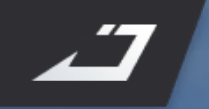
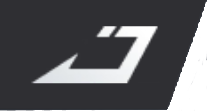
Reprise pages, nouvelle fonction limite puissance (en travaux)

Changed region(s): [[0.0, 0.0, 1.0, 1.0], [0.1449, 0.2202, 0.7826, 0.7706]]

diff --git a/CharacterManager/Components/Styles/Escouade.css b/CharacterManager/Components/Styles/Escouade.css
@@ -54,7 +54,8 @@
     display: flex;
     flex-wrap: nowrap;
     gap: 0.5rem;
-    width: min-content;
+    width: 100%;
+    justify-content: flex-start;
 }
 
 .escouade-member-preview {
@@ -95,8 +96,12 @@
     position: relative;
     display: flex;
     flex-direction: column;
-    min-height: calc(var(--commandant-height) + 40px);
-    padding: 3.5rem 1.5rem 1.5rem 1rem;
+    justify-content: space-between;
+    min-height: 90vh;
+    padding: 1rem 1.5rem;
+    background-attachment: fixed;
+    background-size: cover;
+    background-position: center;
 }
 
 .escouade-header .page-title {
@@ -108,8 +113,24 @@
     display: flex;
     align-items: center;
     justify-content: center;
-    background: lightblue;
+    background: rgba(173, 216, 230, 0.9);
     color: #1f2f3a;
+    border-radius: 8px;
+}
+
+.escouade-header .back-button {
+    position: fixed;
+    top: 1rem;
+    left: 1rem;
+    z-index: 1000;
+    width: 40px;
+    height: 40px;
+    display: flex;
+    align-items: center;
+    justify-content: center;
+    background: rgba(255, 255, 255, 0.9);
+    border-radius: 50%;
+    box-shadow: 0 2px 8px rgba(0, 0, 0, 0.2);
 }
 
 .header-left {
@@ -133,24 +154,25 @@
     align-items: center;
     gap: 1rem;
     padding: 0 1.5rem 0 1rem;
+    justify-content: center;
+    margin-top: 1rem;
 }
 
 .escouade-preview-section {
-    flex: 1;
+    width: 100%;
     background: #f8f9fa;
     padding: 0.75rem;
     border-radius: 8px;
     overflow-x: auto;
     overflow-y: hidden;
-    height: var(--commandant-height);
+    max-height: var(--commandant-height);
     display: flex;
+    justify-content: flex-start;
     align-items: center;
 }
 
-.header-right {
-    display: flex;
-    align-items: flex-start;
-    gap: 1rem;
+.escouade-header.clickable {
+    cursor: pointer;
 }
 
 .section-header {
@@ -165,16 +187,6 @@
     font-size: 1.2rem;
     color: #1f2f3a;
     font-weight: 700;
-}
-
-.commandant-hero {
-    width: 280px;
-    height: 373px;
-    object-fit: cover;
-    border-radius: 16px;
-    box-shadow: 0 8px 22px rgba(0, 0, 0, 0.3);
-    border: 2px solid rgba(255, 255, 255, 0.7);
-    background: #f5f5f5;
 }
 
 .puissance-header {

diff --git a/CharacterManager/wwwroot/Styles/Escouade.css b/CharacterManager/wwwroot/Styles/Escouade.css
@@ -98,6 +98,30 @@
     min-height: calc(var(--commandant-height) + 60px);
     padding-top: 170px; /* space for puissance bloc */
     gap: 0.75rem;
+    overflow: hidden;
+}
+
+.header-background-left,
+.header-background-right {
+    position: absolute;
+    top: 0;
+    height: 100%;
+    z-index: 0;
+}
+
+.header-background-left {
+    left: 0;
+}
+
+.header-background-right {
+    right: 0;
+}
+
+.header-bg-image {
+    height: 100%;
+    width: auto;
+    object-fit: contain;
+    display: block;
 }
 
 .escouade-header .page-title {
@@ -119,7 +143,7 @@
 
 .header-center {
     position: absolute;
-    top: 0.5rem;
+    top: 0;
     left: 50%;
     transform: translateX(-50%);
     display: flex;

diff --git a/CharacterManager/wwwroot/Styles/MeilleurEscouade.css b/CharacterManager/wwwroot/Styles/MeilleurEscouade.css
@@ -98,6 +98,30 @@
     min-height: calc(var(--commandant-height) + 60px);
     padding-top: 170px;
     gap: 0.75rem;
+    overflow: hidden;
+}
+
+.header-background-left,
+.header-background-right {
+    position: absolute;
+    top: 0;
+    height: 100%;
+    z-index: 0;
+}
+
+.header-background-left {
+    left: 0;
+}
+
+.header-background-right {
+    right: 0;
+}
+
+.header-bg-image {
+    height: 100%;
+    width: auto;
+    object-fit: contain;
+    display: block;
 }
 
 .escouade-header .page-title {
@@ -119,7 +143,7 @@
 
 .header-center {
     position: absolute;
-    top: 0.5rem;
+    top: 0;
     left: 50%;
     transform: translateX(-50%);
     display: flex;

diff --git a/CharacterManager/Components/Styles/Home.css b/CharacterManager/Components/Styles/Home.css
@@ -58,8 +58,9 @@
 }
 
 .welcome-card h1 {
+    margin-top: 1rem;
     font-size: 2.8rem;
-    margin-bottom: 10px;
+    margin-bottom: 1.5rem;
     font-weight: 700;
     text-shadow: 2px 2px 4px rgba(0, 0, 0, 0.3);
 }
@@ -71,7 +72,7 @@
 }
 
 .features-section {
-    margin: 20px 0;
+    margin-top: 2rem;
 }
 
 .features-section h3 {

diff --git a/CharacterManager/wwwroot/Styles/Home.css b/CharacterManager/wwwroot/Styles/Home.css
@@ -42,7 +42,9 @@
     height: 100vh;
     display: flex;
     flex-direction: column;
-    justify-content: center;
+    justify-content: flex-start;
+    padding-top: 60px;
+    overflow-y: auto;
 }
 
 @media (max-width: 991.98px) {

diff --git a/CharacterManager/Components/Pages/Escouade.razor.cs b/CharacterManager/Components/Pages/Escouade.razor.cs
@@ -69,4 +69,31 @@ public partial class Escouade
     private string GetFilterForCommandants() => "commandants";
     private string GetFilterForMercenaires() => "mercenaires";
     private string GetFilterForAndroides() => "androides";
+
+    private string GetCommandantHeaderImage()
+    {
+        if (commandants.Any())
+        {
+            var commandant = commandants.First();
+            if (!string.IsNullOrEmpty(commandant.ImageUrlHeader))
+            {
+                return commandant.ImageUrlHeader;
+            }
+            if (!string.IsNullOrEmpty(commandant.Nom))
+            {
+                var nomFichier = commandant.Nom.ToLower().Replace(" ", "_");
+                return $"/images/personnages/{nomFichier}_header.png";
+            }
+        }
+        return "/images/interface/hunter_header.png";
+    }
+
+    private void NavigateToCommandantDetail()
+    {
+        if (commandants.Any())
+        {
+            var cmd = commandants.First();
+            NavigateToDetail(cmd.Id, GetFilterForCommandants(), "/escouade");
+        }
+    }
 }

diff --git a/CharacterManager/Components/Pages/MeilleurEscouade.razor.cs b/CharacterManager/Components/Pages/MeilleurEscouade.razor.cs
@@ -51,4 +51,29 @@ public partial class MeilleurEscouade
     private string GetFilterForCommandants() => "commandants";
     private string GetFilterForMercenaires() => "mercenaires";
     private string GetFilterForAndroides() => "androides";
+
+    private string GetCommandantHeaderImage()
+    {
+        if (topCommandant != null)
+        {
+            if (!string.IsNullOrEmpty(topCommandant.ImageUrlHeader))
+            {
+                return topCommandant.ImageUrlHeader;
+            }
+            if (!string.IsNullOrEmpty(topCommandant.Nom))
+            {
+                var nomFichier = topCommandant.Nom.ToLower().Replace(" ", "_");
+                return $"/images/personnages/{nomFichier}_header.png";
+            }
+        }
+        return "/images/interface/hunter_header.png";
+    }
+
+    private void NavigateToCommandantDetail()
+    {
+        if (topCommandant != null)
+        {
+            NavigateToDetail(topCommandant.Id, GetFilterForCommandants(), "/meilleur-escouade");
+        }
+    }
 }

diff --git a/CharacterManager/Program.cs b/CharacterManager/Program.cs
@@ -264,7 +264,19 @@ using (var scope = app.Services.CreateScope())
         
         // Removed ThumbnailHeightPx column hotfix (unused)
         
-        
+        // Hotfix: Add missing 'ImageUrlHeader' column to Personnages table if it doesn't exist
+        if (TableExists("Personnages") && !ColumnExists("Personnages", "ImageUrlHeader"))
+        {
+            try
+            {
+                db.Database.ExecuteSqlRaw("ALTER TABLE Personnages ADD COLUMN ImageUrlHeader TEXT NOT NULL DEFAULT '';");
+                Console.WriteLine("[DB] Added ImageUrlHeader to Personnages.");
+            }
+            catch (Microsoft.Data.Sqlite.SqliteException ex)
+            {
+                Console.WriteLine($"[DB] Could not add ImageUrlHeader: {ex.Message}");
+            }
+        }
 
         // Removed AppImages category column hotfix (unused)
 

diff --git a/CharacterManager/Server/Models/Personnage.cs b/CharacterManager/Server/Models/Personnage.cs
@@ -67,6 +67,7 @@ public class Personnage
     public string ImageUrlDetail { get; set; } = string.Empty;        // Pour la vue détail (grande image)
     public string ImageUrlPreview { get; set; } = string.Empty;       // Pour les aperçus (escouade, inventaire) - _small_portrait.png
     public string ImageUrlSelected { get; set; } = string.Empty;      // Quand le personnage est sélectionné - _small_select.png
+    public string ImageUrlHeader { get; set; } = string.Empty;        // Pour l'image de fond du header
 
     // Description et capacités
     public string Description { get; set; } = string.Empty;

diff --git a/CharacterManager/Server/Services/PersonnageService.cs b/CharacterManager/Server/Services/PersonnageService.cs
@@ -68,6 +68,11 @@ public class PersonnageService
                GetTopAndroides().Sum(p => p.Puissance);
     }
 
+    public int GetPuissanceSeuilCommandantPourLvlUp()
+    {
+        return 1000 * (GetTopCommandant()?.Niveau + 1 ?? 58000) - 58000;
+    }
+
     public IEnumerable<Personnage> GetTopMercenaires(int count = 8)
     {
         var personnages = _context.Personnages
